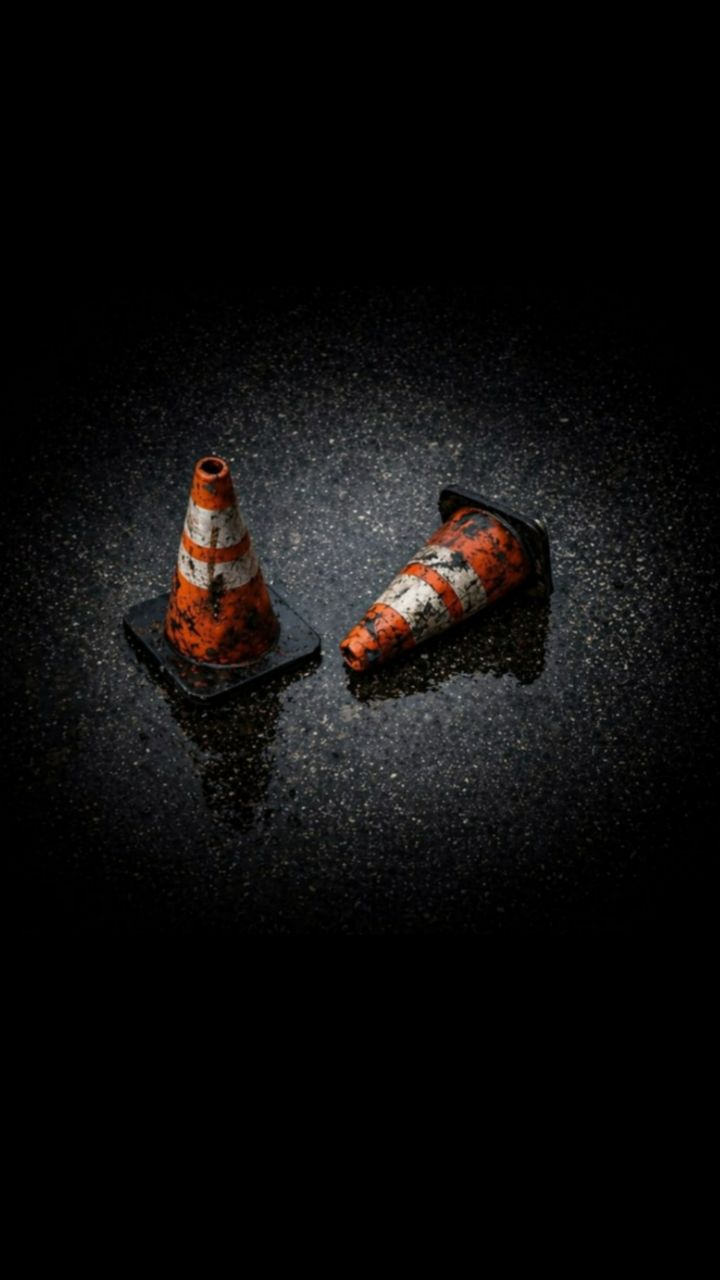
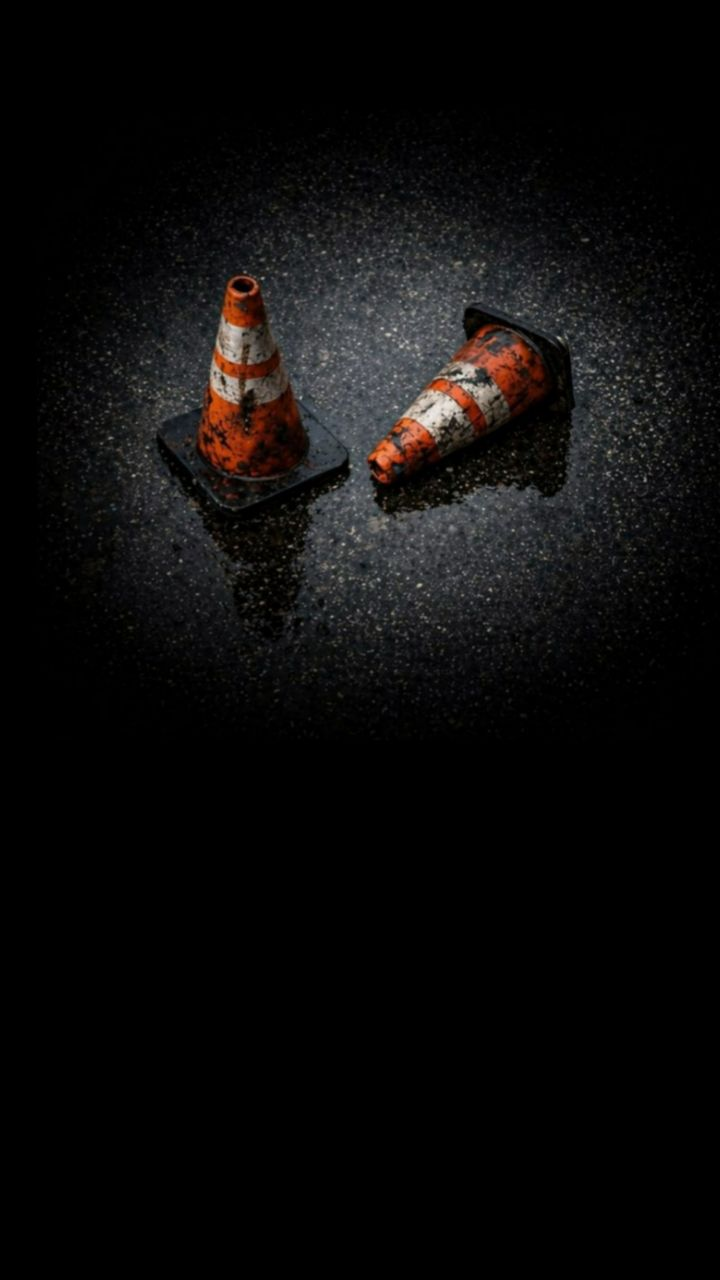
revert

Changed region(s): [[0.0611, 0.1562, 0.9778, 0.6875]]

diff --git a/app/page.js b/app/page.js
@@ -512,8 +512,8 @@ export default function DCPWebsiteV2() {
   className="futures-bg-mobile absolute inset-0 bg-no-repeat opacity-95 lg:hidden"
   style={{
     backgroundImage: "url('/images/backgrounds/futures-mobile.jpg')",
-    backgroundSize: "120% auto",
-    backgroundPosition: "center calc(50% - 350px)",
+    backgroundSize: "contain",
+    backgroundPosition: "center center",
   }}
 />
 
